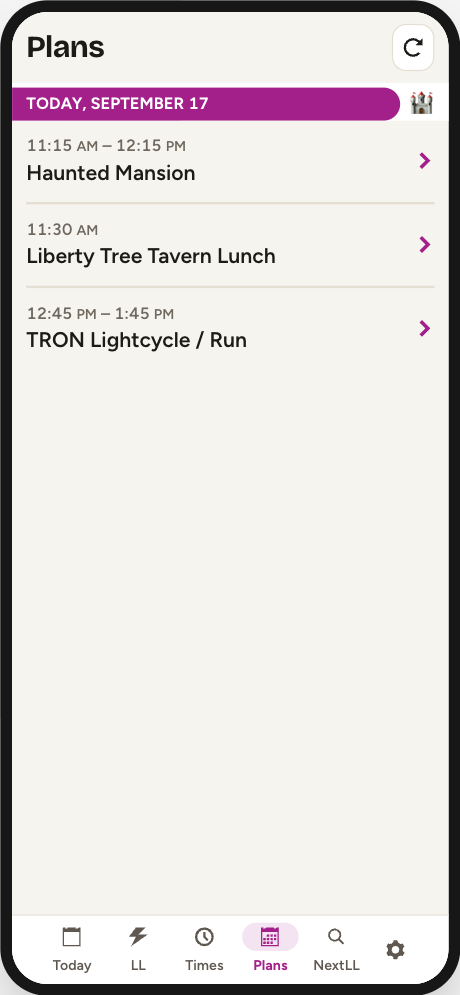
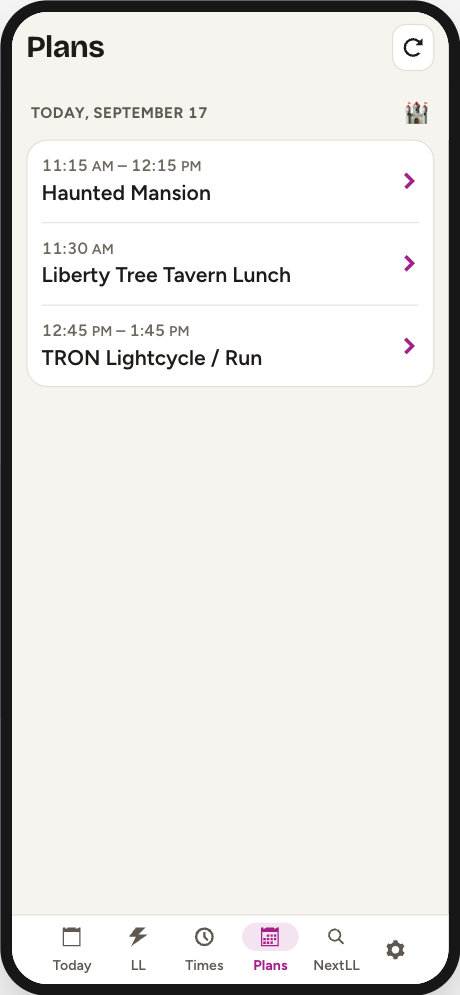
New look, slice 7: the Plans tab (#33)
The Plans tab redrawn to match the tip board. Looks only: the same
days, the same rows and words, and a row still opens its details.

- Each day as a quiet label, kept at the top on the page's own paper
  while its plans scroll under it, where it was a pill in the default
  theme's colour.
- The day's plans as one card with hairline rules. The rows themselves
  are the shared BookingListing, left as they are, since the Modifying
  header, Your Day and NextLL's modify list draw it too.

Checked in the harness at 360 px. The guide's Plans screenshot is
retaken.

diff --git a/src/components/ll/screens/Plans.tsx b/src/components/ll/screens/Plans.tsx
@@ -5,7 +5,7 @@ import { Park } from '@/api/resort';
 import { Day } from '@/components/Day';
 import Tab from '@/components/Tab';
 import PlansContext from '@/contexts/PlansContext';
-import ThemeContext, { DEFAULT_THEME } from '@/contexts/ThemeContext';
+import { DEFAULT_THEME } from '@/contexts/ThemeContext';
 import { parkDate } from '@/datetime';
 
 import { ScreenProps } from '../../Screen';
@@ -35,8 +35,6 @@ export default function Plans(props: Partial<ScreenProps>) {
 }
 
 const PlansList = memo(function PlansList({ plans }: { plans: Booking[] }) {
-  const theme = use(ThemeContext);
-
   const plansByDate = new Map<string, Booking[]>();
   const parksByDate = new Map<string, Set<Park>>();
   for (const plan of plans) {
@@ -54,14 +52,15 @@ const PlansList = memo(function PlansList({ plans }: { plans: Booking[] }) {
       {plans.length > 0 ? (
         [...plansByDate].map(([date, plans]) => (
           <li key={date}>
-            <div className={`sticky top-0 -mx-3 pt-1 bg-white`}>
+            {/* The day as a quiet label, as the tip board labels its tiers,
+                kept at the top on the page's own paper while its plans scroll
+                under it. */}
+            <div className="sticky top-0 z-10 -mx-3 bg-paper px-3 pt-3 pb-2">
               <div className="flex items-center">
-                <h2
-                  className={`flex-1 mt-0 rounded-r-full px-3 py-1 ${theme.bg} text-white text-sm uppercase`}
-                >
+                <h2 className="mt-0 flex-1 px-1 text-[13px] font-bold tracking-wide text-gray-600 uppercase">
                   <Day>{date}</Day>
                 </h2>
-                <ul className="px-3 pl-2 text-lg text-right">
+                <ul className="pr-1 text-lg text-right">
                   {[...(parksByDate.get(date) ?? [])].map(park => (
                     <li
                       key={park.id}
@@ -75,7 +74,7 @@ const PlansList = memo(function PlansList({ plans }: { plans: Booking[] }) {
               </div>
             </div>
             {plans.length > 0 ? (
-              <ul className={`dividers ${plans.length === 0 ? 'mt-3' : ''}`}>
+              <ul className="divide-y divide-gray-200 overflow-hidden rounded-[18px] border border-gray-300 bg-white px-3 [&>li]:py-3">
                 {plans.map(booking => (
                   <li key={booking.id} data-testid="plan">
                     <BookingListing details booking={booking} />

diff --git a/docs/NEW-LOOK.md b/docs/NEW-LOOK.md
@@ -69,6 +69,7 @@ park. Each slice keeps all of them.
 | 4 | NextLL | the search as a card with the held time at full size; Done green, Stop looking red; collapsible sections as cards | merged (#4) |
 | 5 | Tip board | Book and Drop as cards, quiet section labels, the attractions as a card, return times as chips in the park's colour | merged (#5) |
 | 6 | Times | each land as a card under a quiet label in its own colour, its kinds as small labels; waits and show times in soft boxes in the display face, with digits that keep their width; the show-times screen as a card | in review |
+| 7 | Plans | each day as a quiet label that stays on screen while its plans scroll, on the page's own paper; the day's plans as one card with hairline rules | in review |
 
 **One deliberate departure from the mockups.** They put Today's main actions in
 a bar along the bottom. The switch stays in the page instead: a bar there sits
@@ -81,8 +82,8 @@ switch would be a new filter, not a new look, so it is not part of these
 slices. The mockups' single tappable park, date and party chip likewise: the
 header keeps its separate controls until that is built as behaviour.
 
-**Not yet redrawn** beyond what the foundation gave them: the Plans list,
-Configure, Plan Check, Activity, Timeline, the booking screens and Settings. They already have the palette, type, header, tab bar and buttons.
+**Not yet redrawn** beyond what the foundation gave them: Configure, Plan Check,
+Activity, Timeline, the booking screens and Settings. They already have the palette, type, header, tab bar and buttons.
 
 **The user guide's screenshots** show the new look. All 21 were retaken
 together once the new look's slices and the usability work had landed, from the
